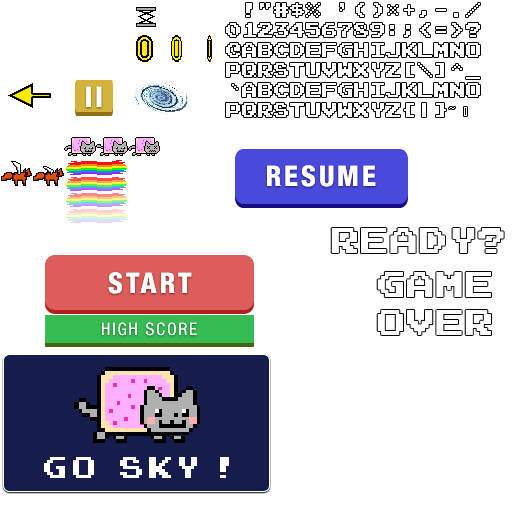
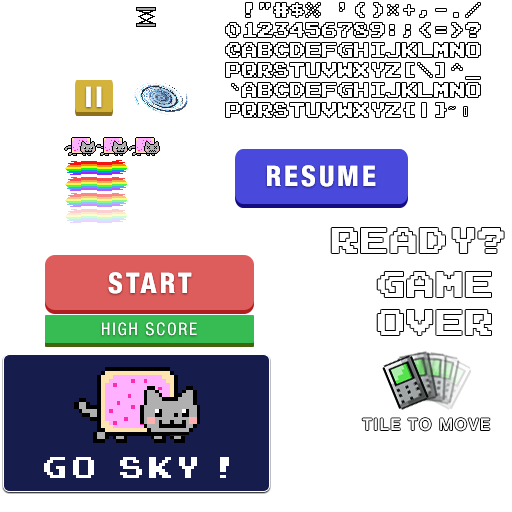
All ready. waitting for background

diff --git a/GoSky/src/main/java/com/qthstudios/game/gosky/config/Assets.java b/GoSky/src/main/java/com/qthstudios/game/gosky/config/Assets.java
@@ -30,6 +30,7 @@ public class Assets {
     public static TextureRegion mainMenu;
     public static TextureRegion pauseMenu;
     public static TextureRegion ready;
+    public static TextureRegion howtoplay;
     public static TextureRegion gameOver;
     public static TextureRegion highScoresRegion;
     public static TextureRegion logo;
@@ -61,9 +62,9 @@ public class Assets {
         if (pos >= backgroundRegions.size() && (BACKGROUND_FULL_HEIGHT - 480 - pos * 480 >= 0)) {
             final LazyTexture background = new LazyTexture(mGame, "background.jpg");
 
-            Thread t = new Thread(new Runnable() {
-                @Override
-                public void run() {
+//            Thread t = new Thread(new Runnable() {
+//                @Override
+//                public void run() {
 
                     background.contextTopOffset = pos * 480;
                     background.topOffset = BACKGROUND_FULL_HEIGHT - 480 - pos * 480;
@@ -72,9 +73,9 @@ public class Assets {
                     backgroundRegions.add(new LazyTextureRegion(background, 0, 0, 320, 480));
 
                     Log.e("TRUNGDQ", "load pos true: " + pos);
-                }
-            });
-            t.start();
+//                }
+//            });
+//            t.start();
             return true;
         } else {
 
@@ -98,6 +99,7 @@ public class Assets {
         mainMenu = new TextureRegion(items, 45, 255, 209, 59);
         pauseMenu = new TextureRegion(items, 224, 128, 192, 96);
         ready = new TextureRegion(items, 320, 224, 192, 32);
+        howtoplay = new TextureRegion(items, 350, 340, 153, 102);
         gameOver = new TextureRegion(items, 352, 256, 160, 96);
         highScoresRegion = new TextureRegion(Assets.items, 45, 315, 209, 32);
         logo = new TextureRegion(items, 0, 352, 274, 142);
@@ -158,9 +160,9 @@ public class Assets {
         });
 
         // Big things come last
-        for (int i = 0; i < 2; ++i) {
-            loadBackground(i);
-        }
+//        for (int i = 0; i < 2; ++i) {
+//            loadBackground(i);
+//        }
     }
 
 

diff --git a/GoSky/src/main/java/com/qthstudios/game/gosky/screencast/GameScreen.java b/GoSky/src/main/java/com/qthstudios/game/gosky/screencast/GameScreen.java
@@ -250,13 +250,15 @@ public class GameScreen extends GLScreen {
     }
 	
 	private void presentReady() {
-	    batcher.drawSprite(160, 240, 192, 32, Assets.ready);
-	}
+        batcher.drawSprite(160, 240, 153, 102, Assets.howtoplay);
+        batcher.drawSprite(160, 240 - 100, 192, 32, Assets.ready);
+
+    }
 	
 	private void presentRunning() {
 	    batcher.drawSprite(320 - 32, 480 - 100, 64, 64, Assets.pause);
         float scoreWidth = Assets.font.glyphWidth * scoreString.length();
-	    Assets.font.drawText(batcher, scoreString, 160 - scoreWidth / 2, 480-80, 2);
+	    Assets.font.drawText(batcher, scoreString, 160 - scoreWidth / 2, 480-100, 2);
 	}
 	
 	private void presentPaused() {        

diff --git a/GoSky/src/main/java/com/qthstudios/game/gosky/screen/GoSky.java b/GoSky/src/main/java/com/qthstudios/game/gosky/screen/GoSky.java
@@ -38,6 +38,8 @@ public class GoSky extends GLGame {
         if(firstTimeCreate) {
             Settings.load(getFileIO());
             Assets.load(GoSky.this);
+            Assets.loadBackground(0);
+            Assets.loadBackground(1);
             firstTimeCreate = false;
         } else {
             Assets.reload();
